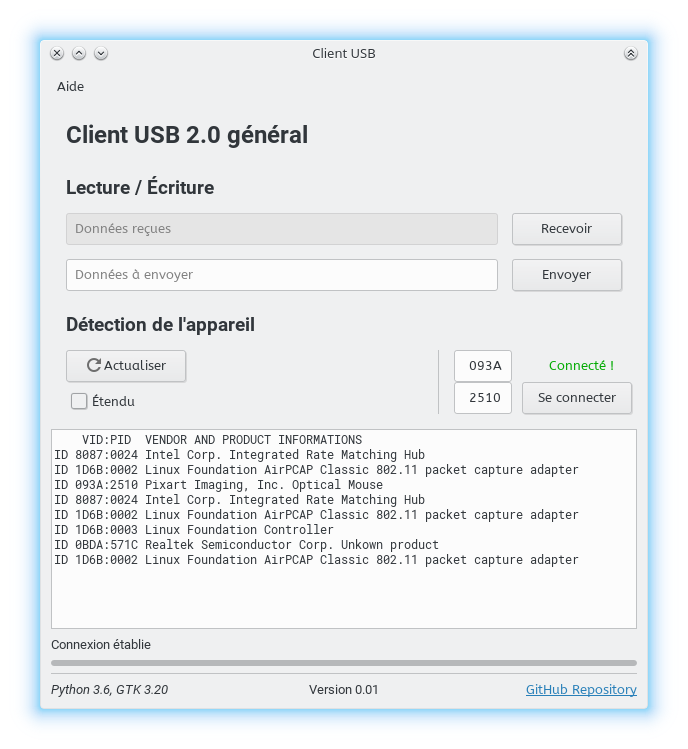
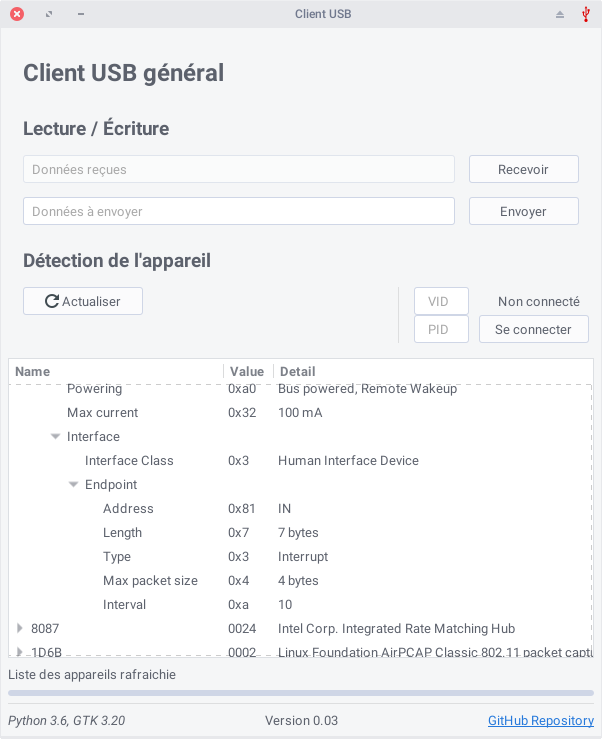
Commit of Version 0.03

diff --git a/usb-client.py b/usb-client.py
@@ -33,6 +33,10 @@ along with this program.  If not, see <http://www.gnu.org/licenses/>.
 
 
 CHANGELOG
+0.03 - replaced the terminal output (text) by a dynamic tree view
+	 - the "extended" checkbox is removed thanks to the dynamic tree view which let the user choose the information
+	 - temporary removed the menubar
+
 0.02 - finished non-tested backend of the receive function
 	 - finished non-tested backend of the send function
 	 - finished non-tested backend of the connect function
@@ -56,7 +60,7 @@ CHANGELOG
 
 import gi
 gi.require_version('Gtk', '3.0')
-from gi.repository import Gtk, Pango
+from gi.repository import Gtk, Pango, GObject
 
 import sys
 import os
@@ -70,6 +74,7 @@ SEE THE GIT PAGE TO USE PYUSB CORRECTLY
 
 https://github.com/walac/pyusb/blob/master/docs/tutorial.rst
 """
+
 
 
 class managegui:
@@ -97,14 +102,16 @@ class managegui:
 
 		self.boutonConnect = self.builder.get_object("boutonConnect")
 
-		self.terminalOutput = self.builder.get_object("terminalOutput")
-		self.terminalBuffer = self.builder.get_object("terminalBuffer")
-		self.terminalOutput.override_font( Pango.font_description_from_string('Monospace 9') )
+		self.treeOutput = self.builder.get_object("treeOutput")
+		self.treestore1 = self.builder.get_object("treestore1")
+		self.VID_tree = self.builder.get_object("VID_tree")
+		self.PID_tree = self.builder.get_object("PID_tree")
+		self.INFO_tree = self.builder.get_object("INFO_tree")
+
+		self.treeviewcolumn1 = self.builder.get_object("treeviewcolumn1")
+
 
 		self.detectLabel = self.builder.get_object("detectLabel")
-
-		self.verboseCheck = self.builder.get_object("verboseCheck")
-
 		
 
 		self.inputVID = self.builder.get_object("inputVID")
@@ -114,12 +121,27 @@ class managegui:
 		self.labelLastchange = self.builder.get_object("labelLastchange")
 
 
+
+
 		self.detectGrid.set_focus_chain([self.inputVID, self.inputPID, self.boutonConnect])
 
 		global VID
 		VID = "0"
 		global PID
 		PID = "0"
+
+
+		### BLOCK TO AUTO GENERATE COLUMNS
+		tree_columns = ["Name", "Value", "Detail"]
+
+		for i, tree_column in enumerate(tree_columns):
+			cell = Gtk.CellRendererText()
+			col = Gtk.TreeViewColumn(tree_column, cell, text=i)
+			col.set_sizing(Gtk.TreeViewColumnSizing.AUTOSIZE)
+			col.set_resizable(True)
+			self.treeOutput.append_column(col)
+
+
 
 		self.window.show_all()
 
@@ -188,18 +210,17 @@ class managegui:
 		else:
 			self.labelLastchange.set_text("Not connected to any device")
 
-	# Send button
+	# "Send data" button
 	def on_boutonEnvoyer_clicked(self, object, data=None):
-		if VID != 0 and PID != 0:
+		if VID != "0" and PID != "0":
 			UsbDataWrite = self.inputEnvoyer.get_text()
 
 			if UsbDataWrite:
-				# Search the device
+				# Search for the device
 				device = usb.core.find(idVendor=VID, idProduct=PID)
-				print(device)
 
 				if device is None:
-					errorstring = "Device not found: pid={} vid={}".format(VID, PID)
+					errorstring = "No device with these ID {}:{}".format(VID, PID)
 					self.labelLastchange.set_text(errorstring)
 				else:
 					self.labelLastchange.set_text("Device found")
@@ -232,27 +253,35 @@ class managegui:
 			self.labelLastchange.set_text("Not connected to any device")
 
 	# Refresh button
-	""" The output of the 'lsusb' command is more precise than the function of usb.core """
 	def on_boutonRefresh_clicked(self, object, data=None):
-		verbose = self.verboseCheck.get_active()
 		devices = usb.core.find(True)
 		strings = ""
 		output1 = ""
+		
+		# We need to clear the store first
+		self.treestore1.clear()
 
 		for device in devices:
+
 			# Get hexadecimal values (with leading zeros) as strings
 			strvendid = str("%0.4X" % device.idVendor)
 			strprodid = str("%0.4X" % device.idProduct)
 
-
 			### GET THE VENDOR'S AND PRODUCT'S NAME FROM THE IDS
-			vendor = "Unkown vendor"
-			product = "Unkown product"
+			vendor = "Unknown vendor" # Default informations
+			product = "Unknown product"
 			vf = 0 # vendor found flag
-			with open("usb.ids") as usbids_file:
-				for line in usbids_file:
-					if not vf:
-						if not line[0] == '\t' and not line[0] == '#' and not line[0] == '\n':
+
+			# Thanks to a file containing USB IDs that we parse here, we retrieve the different informations
+			"""
+			This search process could be better by using the number of tabulations before the IDs. In this algorithm for now, each row containing information are compared
+			with ours. The problem is that if we are searching for a VID, even if the line contains a PID it will be compared with. Maybe this could be optimized by checking
+			the number of tabulations before the ID (to determine if it is a VID, a PID or sub ID)... Just an idea
+			"""
+			with open("usb.ids") as usbids_file: # Open the file first
+				for line in usbids_file: # Then we read it line by line
+					if not vf: # We first search for the vendor ID, see the file to understand why (PID depending from VID : optimizing the search process)
+						if not line[0] == '\t' and not line[0] == '#' and not line[0] == '\n': # Skip all blank lines and comments
 							if int(strvendid, 16) == int(line[:4], 16):
 								vendor = line[6:-1]
 								vf = 1
@@ -262,17 +291,96 @@ class managegui:
 								product = line[7:-1]
 			usbids_file.close()
 
-			if not verbose:
-				output1 += "ID %s:%s %s %s\n" % (strvendid, strprodid, vendor, product)
-			else:
-				strings += "%s\n\n" % str(device)
 
-		if verbose:
-			output = usb.core._DescriptorInfo(strings)
-			self.terminalBuffer.set_text(output)
-		else:
-			tip = "    VID:PID  VENDOR AND PRODUCT INFORMATIONS\n"
-			self.terminalBuffer.set_text(tip+output1)
+			venduct = vendor + " " + product # Make the fusion between the vendor name and the product info
+
+
+
+			### DESCRIPTOR
+			# Inspired from the source of pyusb core
+
+			# CONFIGURATION
+			active_configuration = device.get_active_configuration()
+			first_interface = active_configuration.interfaces()[0] # Get the first interface /!\ Could make confusion if it is not the wished one
+			endpoint = first_interface.endpoints()[0]
+
+			if active_configuration.bmAttributes & (1<<6):
+				powered = "Self powered"
+			else:
+				powered = "Bus powered"
+
+			if active_configuration.bmAttributes & (1<<5):
+				remote_wakeup = ", Remote Wakeup"
+			else:
+				remote_wakeup = ""
+
+			powering = powered + remote_wakeup
+			max_current = usb.core._lu.MAX_POWER_UNITS_USB2p0 * active_configuration.bMaxPower
+
+
+				
+			if device.bcdUSB & 0xf:
+				low_bcd_usb = str(device.bcdUSB & 0xf)
+			else:
+				low_bcd_usb = ""
+			bcdUSBtreated = [(device.bcdUSB & 0xff00)>>8, (device.bcdUSB & 0xf0) >> 4, low_bcd_usb]
+			
+
+			if device.bcdDevice & 0xf:
+				low_bcd_device = str(device.bcdDevice & 0xf)
+			else:
+				low_bcd_device = ""
+			bcdDevicetreated = [(device.bcdDevice & 0xff00)>>8, (device.bcdDevice & 0xf0) >> 4, low_bcd_device]
+
+			if usb.core.util.endpoint_direction(endpoint.bEndpointAddress) == usb.core.util.ENDPOINT_IN:
+				direction = "IN"
+			else:
+				direction = "OUT"
+
+
+			pyusb_commands_device= [["Vendor ID", device.idVendor, vendor],
+									["Product ID", device.idProduct, product],
+									["Descriptor Type", device.bDescriptorType, str(usb.core._try_lookup(usb.core._lu.descriptors, device.bDescriptorType))],
+									["Device Class", device.bDeviceClass, str(usb.core._try_lookup(usb.core._lu.device_classes, device.bDeviceClass)) ],
+									["Device Version", device.bcdDevice, "Device %s.%s%s" % (bcdDevicetreated[0], bcdDevicetreated[1], low_bcd_usb)],
+									["USB Version", device.bcdUSB, "USB %s.%s%s" % (bcdUSBtreated[0], bcdUSBtreated[1], low_bcd_usb)],
+									["Device Protocol", device.bDeviceProtocol, None],
+									["Device Sub Class", device.bDeviceSubClass, None] ]
+
+			""" For active config only ! I (Lalks) don't have any device that has more than one configuration
+				so I can't test a tree where there would have multiple configurations listed. """
+			pyusb_commands_config= [["Powering", active_configuration.bmAttributes, powering],
+									["Max current", active_configuration.bMaxPower, "%s mA" % max_current]]
+
+			pyusb_commands_intrfc= [["Interface Class", first_interface.bInterfaceClass, str(usb.core._try_lookup(usb.core._lu.interface_classes, first_interface.bInterfaceClass))]]
+			
+			pyusb_commands_endpnt= [["Address", endpoint.bEndpointAddress, direction],
+									["Length", endpoint.bLength, "%s bytes" % str(endpoint.bLength)],
+									["Type", endpoint.bmAttributes, str(usb.core._lu.ep_attributes[(endpoint.bmAttributes & 0x3)]) ],
+									["Max packet size", endpoint.wMaxPacketSize, "%s bytes" % str(endpoint.wMaxPacketSize)],
+									["Interval", endpoint.bInterval, str(endpoint.bInterval)] ]
+
+			### CONSTRUCT THE TREE
+			# Adding parent
+			iter0 = self.treestore1.append(None, [strvendid, strprodid, venduct])
+
+			# Adding childs
+			for result in pyusb_commands_device:
+				self.treestore1.append( iter0, [ result[0], hex(result[1]), result[2]] )
+
+			iter1 = self.treestore1.append(iter0, ["Active configuration", None, None])
+			for result in pyusb_commands_config:
+				self.treestore1.append( iter1, [ result[0], hex(result[1]), result[2]] )
+
+			iter2 = self.treestore1.append(iter1, ["Interface", None, None])
+			for result in pyusb_commands_intrfc:
+				self.treestore1.append( iter2, [ result[0], hex(result[1]), result[2]] )
+
+			iter3 = self.treestore1.append(iter2, ["Endpoint", None, None])
+			for result in pyusb_commands_endpnt:
+				self.treestore1.append( iter3, [ result[0], hex(result[1]), result[2]] )
+				
+
 		self.labelLastchange.set_text("Liste des appareils rafraichie")
 	
 	def on_inputVID_key_press_event(self, object, event, data=None):
@@ -301,7 +409,7 @@ class managegui:
 				>>> device = usb.core.find(idVendor=0x093A, idProduct=0x2510) # An USB Mouse
 				>>> device
 				<DEVICE ID 093a:2510 on Bus 001 Address 006>
-				>>> config = device.get_active_configuration() # Config already set by distro drivers
+				>>> config = device.get_active_configuration() # Config already set by the OS's drivers
 				>>> config
 				<CONFIGURATION 1: 100 mA>
 				>>> interface = config[(0,0)]
@@ -332,13 +440,11 @@ class managegui:
 				""" I COMMENTED TO NOT DAMAGE THE DEVICE WHEN CLICKED THE BUTTON
 					(TO UNCOMMENT WHEN SURE OF THE FUNCTION !)
 
-				# SET THE CONFIGURATION
+				# SET THE CONFIGURATION (NOTE: Need to be root)
 				# Sets the first configuration found
 				# Important : if the device has more than one configuration possible
 							  you have to add an argument, see the pyusb github repo
 				device.set_configuration()
-
-				
 				
 				self.detectLabel.set_markup("<span foreground='#00AA00'>Connecté !</span>")
 				self.labelLastchange.set_text("Connexion établie")
@@ -352,6 +458,54 @@ class managegui:
 			self.detectLabel.set_text("VID/PID incorrect")
 			self.labelLastchange.set_text("Échec de connexion")
 	
+	def on_treeOutput_row_activated(self, object, selection, data):
+		# 	   data : TreeViewColumn
+		# selection : TreePath
+
+		# k_list : gtkliststore
+		k_list = object.get_model()
+
+		# m_ids : list where the row's data are going to be stored
+		m_ids = list()
+
+		# m_item = the row kind of place, index
+		m_item = k_list.get_iter(selection)
+
+		m_ids.append(k_list.get_value(m_item, 0)) # VID
+		m_ids.append(k_list.get_value(m_item, 1)) # PID
+		m_ids.append(k_list.get_value(m_item, 2)) # Info
+
+		# Now m_ids is at this format : ['VID', 'PID', 'Information about the device']
+
+		self.inputVID.set_text(m_ids[0])
+		self.inputPID.set_text(m_ids[1])
+
+
+		device = usb.core.find(idVendor=int(m_ids[0], 16), idProduct=int(m_ids[1], 16))
+
+		# Get hexadecimal values (with leading zeros) as strings
+		strvendid = str("%0.4X" % device.idVendor)
+		strprodid = str("%0.4X" % device.idProduct)
+
+
+		### GET THE VENDOR'S AND PRODUCT'S NAME FROM THE IDS
+		vendor = "Unknown vendor"
+		product = "Unknown product"
+		vf = 0 # vendor found flag
+		with open("usb.ids") as usbids_file:
+			for line in usbids_file:
+				if not vf:
+					if not line[0] == '\t' and not line[0] == '#' and not line[0] == '\n':
+						if int(strvendid, 16) == int(line[:4], 16):
+							vendor = line[6:-1]
+							vf = 1
+				else:
+					if line[0] == '\t' and not line[0] == '#' and not line[0] == '\n':
+						if int(strprodid, 16) == int(line[1:5], 16):
+							product = line[7:-1]
+		usbids_file.close()
+
+
 	def on_Licence_activate(self, object, data=None):
 		self.windowLicence.show()
 	def on_windowLicence_destroy(self, object, data=None):

diff --git a/README.md b/README.md
@@ -25,6 +25,11 @@ Tested on :
 ![alt text](https://github.com/Lalks/General-USB-Client/blob/master/SCREENSHOTS/screenshot-01.png)
 
 ## Changelog
+**0.03**
+- replaced the terminal output (text) by a dynamic tree view
+- the "extended" checkbox is removed thanks to the dynamic tree view which let the user choose the information
+- temporary removed the menubar
+
 **0.02**
 - finished non-tested backend of the receive function
 - finished non-tested backend of the send function
